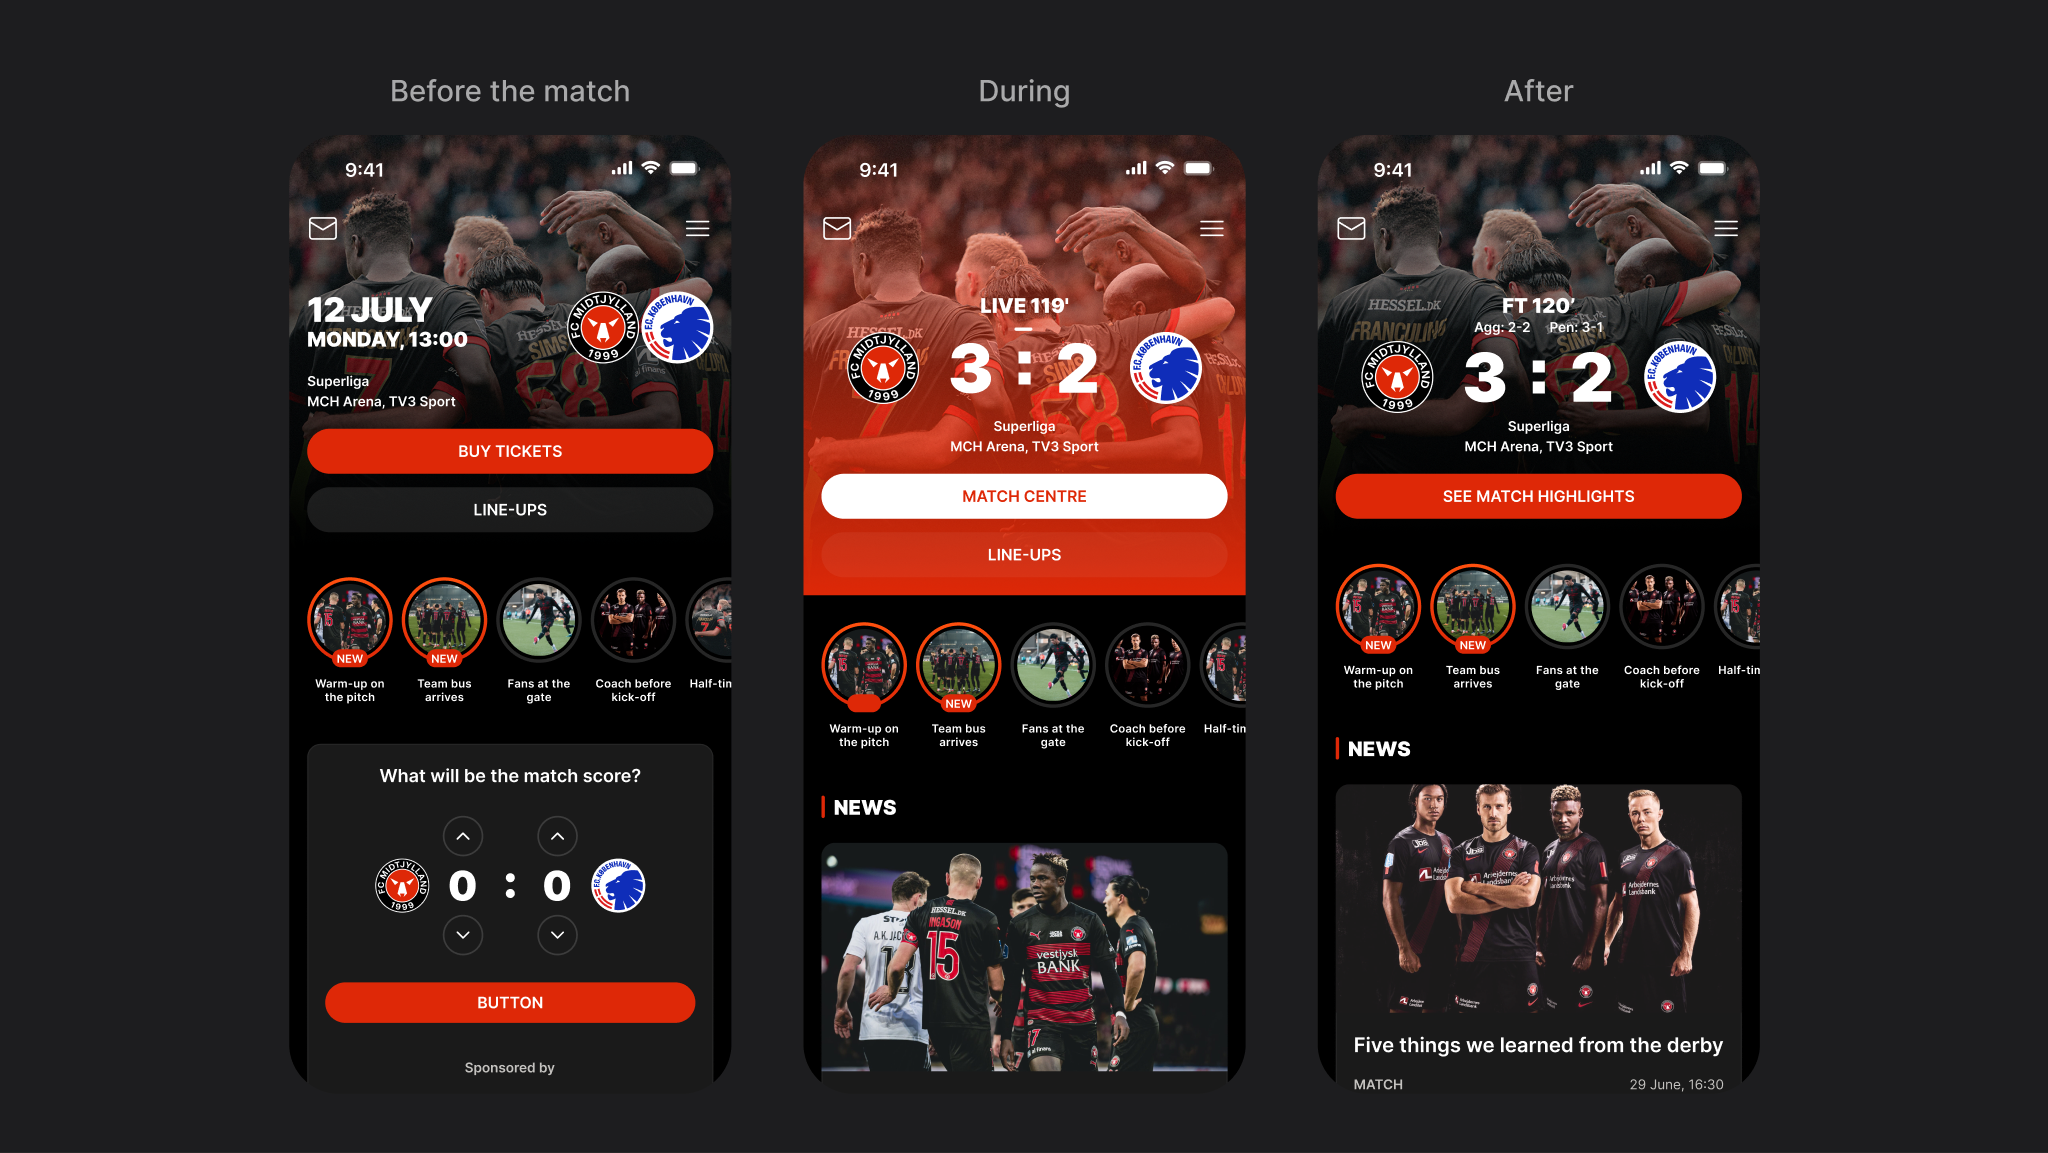
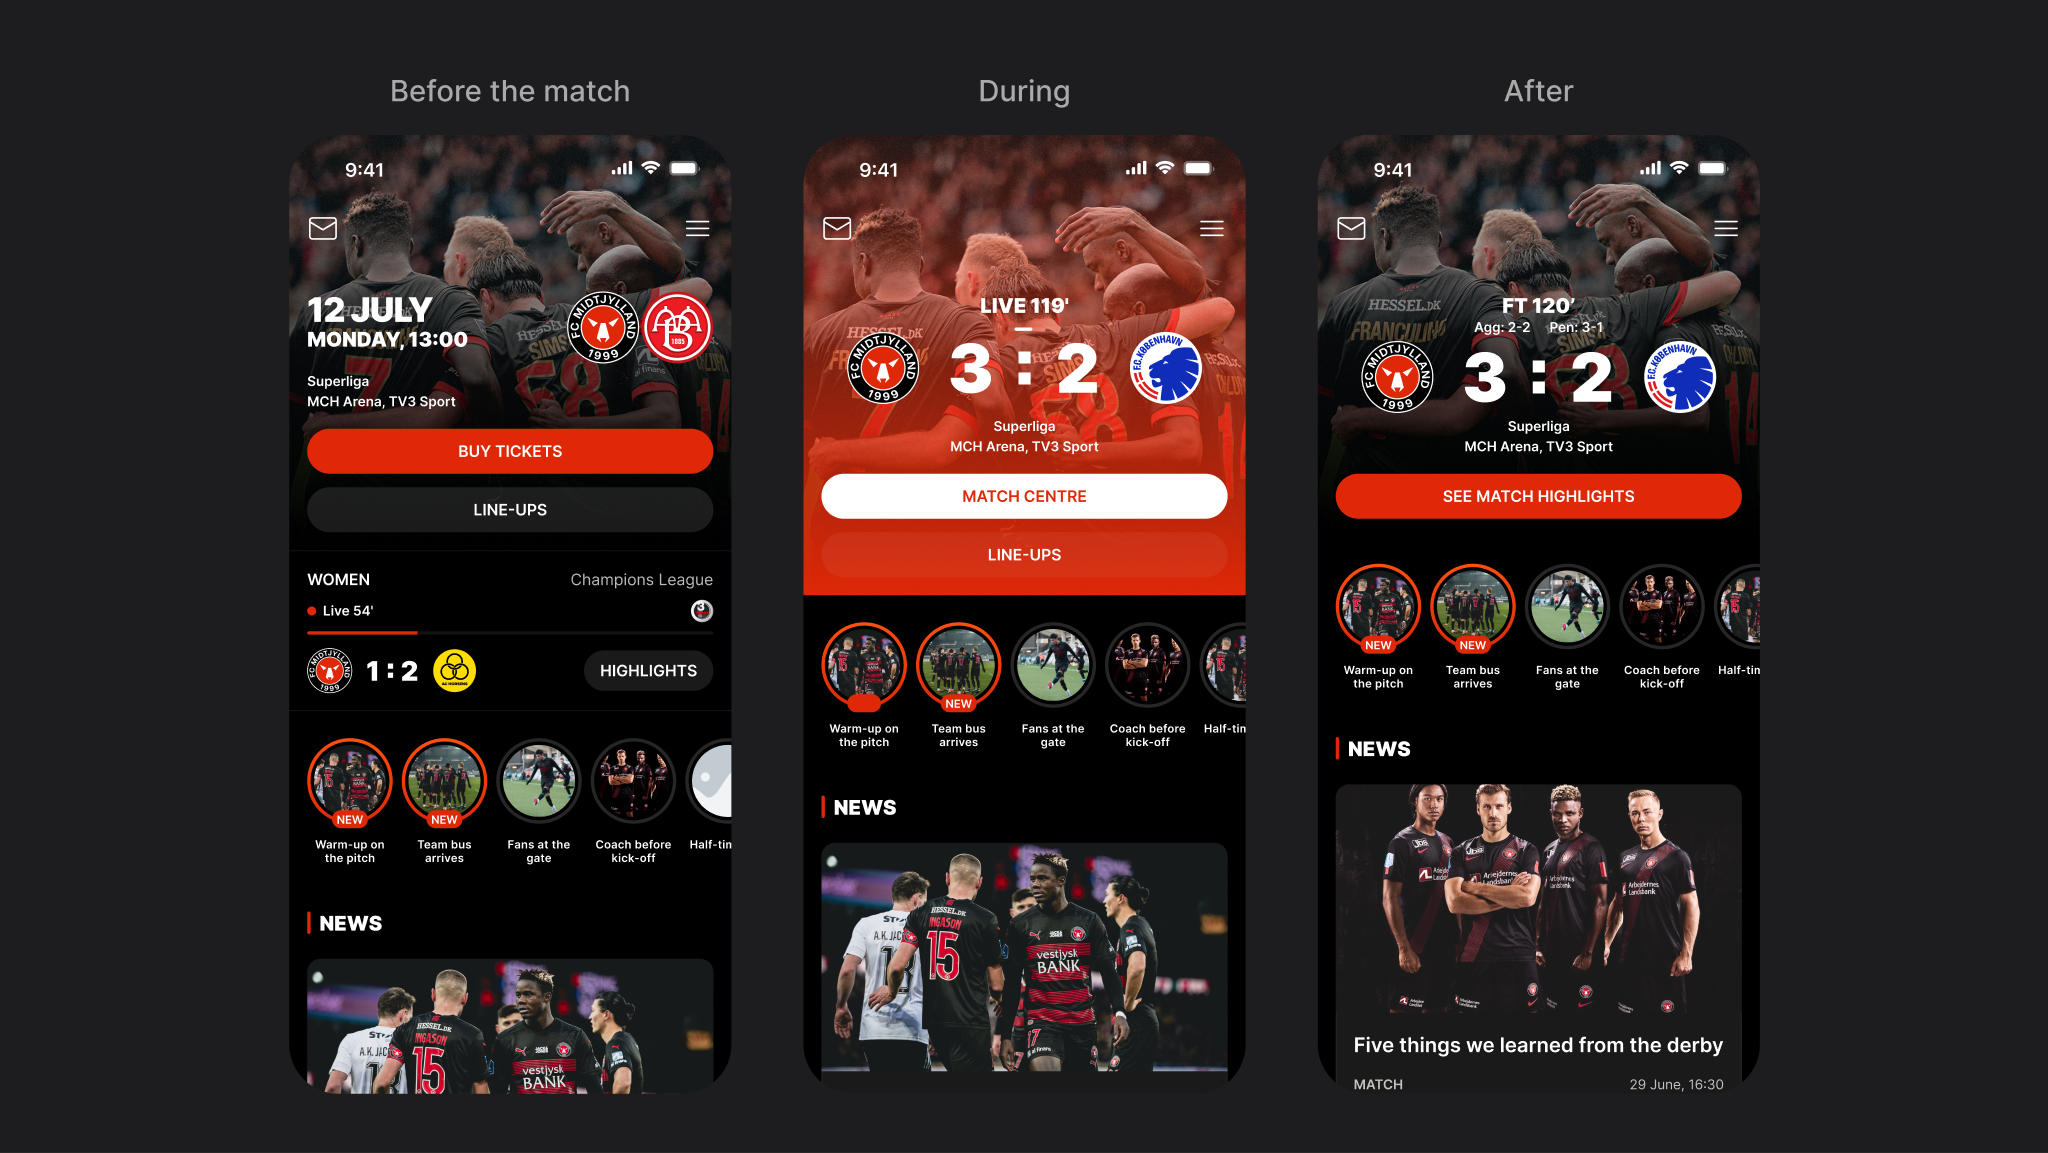
White-label case: add buy-ticket benchmark, new pre-match home
- Process: benchmark of Juventus, Barcelona, Man City and Inter app ticket journeys,
  redrawn as a readable four-card composition
- Home states: pre-match screen rebuilt from TEST with fixed copy (Women label, Vote)

Claude-Session: https://claude.ai/code/session_01MkgcQijRKxNi5uAKBjC4dC

Changed region(s): [[0.125, 0.4996, 0.375, 0.9679], [0.3125, 0.2498, 0.3438, 0.3122]]

diff --git a/white-label-app.html b/white-label-app.html
@@ -55,6 +55,8 @@
 <h2 class="reveal">Process</h2>
 <p class="reveal">We worked from fan scenarios, not from screens. The FCK board follows one fan question — what is the next match? — from the day after a game to the final whistle of the next one.</p>
 <div class="media reveal"><figure class="fig"><img src="img/white-label-app/process-fck-journey.webp" alt="FCK journey map: what a fan does the week before, on match day, during and after the match" width="2048" height="945" loading="lazy" decoding="async"><figcaption>FCK board<span class="sep">·</span>what is the next match?</figcaption></figure></div>
+<p class="reveal">For the Brøndby&nbsp;IF app we benchmarked how four big clubs sell match tickets in their apps. Three paths end on an external site, and one gets stuck at the login request.</p>
+<div class="media reveal"><figure class="fig"><img src="img/white-label-app/process-benchmark.webp" alt="Benchmark of buy-ticket journeys in the Juventus, FC Barcelona, Manchester City and Inter apps: number of steps, where each path ends, and what works or hurts" width="2048" height="1153" loading="lazy" decoding="async"><figcaption>Buy-ticket benchmark<span class="sep">·</span>Juventus, FC&nbsp;Barcelona, Manchester&nbsp;City, Inter</figcaption></figure></div>
 <p class="reveal">Before the screens I mapped how a new fan gets into the app: first open, permissions, login or skip, home. Notifications and location matter on match day, but they should not block someone who only wants to see the next game.</p>
 <div class="media reveal"><figure class="fig"><img src="img/white-label-app/main-app-flow.webp" alt="Main app flow: first open, permissions, login or skip, home screen" width="2048" height="1152" loading="lazy" decoding="async"><figcaption>Main app flow: ask for permissions when they matter</figcaption></figure></div>
 <p class="reveal">Ticketing started as sketches by fan type. A season-card holder, a ticket subscriber, a ticket holder and a fan with no ticket each get a different question before the match.</p>
@@ -69,7 +71,7 @@
 <p class="reveal">The system itself is a separate case: <a href="design-system.html">Design system for multi-brand club apps</a>.</p>
 <h2 class="reveal">A home screen that follows the match</h2>
 <p class="reveal">The first screen changes with the match. Before kick-off it sells tickets and asks for a score prediction. During the match it leads with the live score. After the final whistle it moves to highlights.</p>
-<div class="media reveal"><figure class="fig"><img src="img/white-label-app/home-match-states.webp" alt="FC Midtjylland home screen before the match with Buy tickets, during the match with the live score, and after the match with highlights" width="2048" height="1153" loading="lazy" decoding="async"><figcaption>Before, during and after the match</figcaption></figure></div>
+<div class="media reveal"><figure class="fig"><img src="img/white-label-app/home-match-states.webp" alt="FC Midtjylland home screen before the match with Buy tickets and a women’s team live score, during the match with the live score, and after the match with highlights" width="2048" height="1153" loading="lazy" decoding="async"><figcaption>Before, during and after the match</figcaption></figure></div>
 <h2 class="reveal">Ticketing: two providers, many states</h2>
 <p class="reveal">Ticketing was the hardest part of the app. Fans hold single tickets or season cards, and up to 40% of season-card holders need to release or transfer a ticket for each match. Behind that were two providers with different rules.</p>
 <p class="reveal">On the FCK board I mapped the decision first. Before a match the fan confirms they are going, sends the seat to a friend, or releases it. The screens follow that split.</p>
